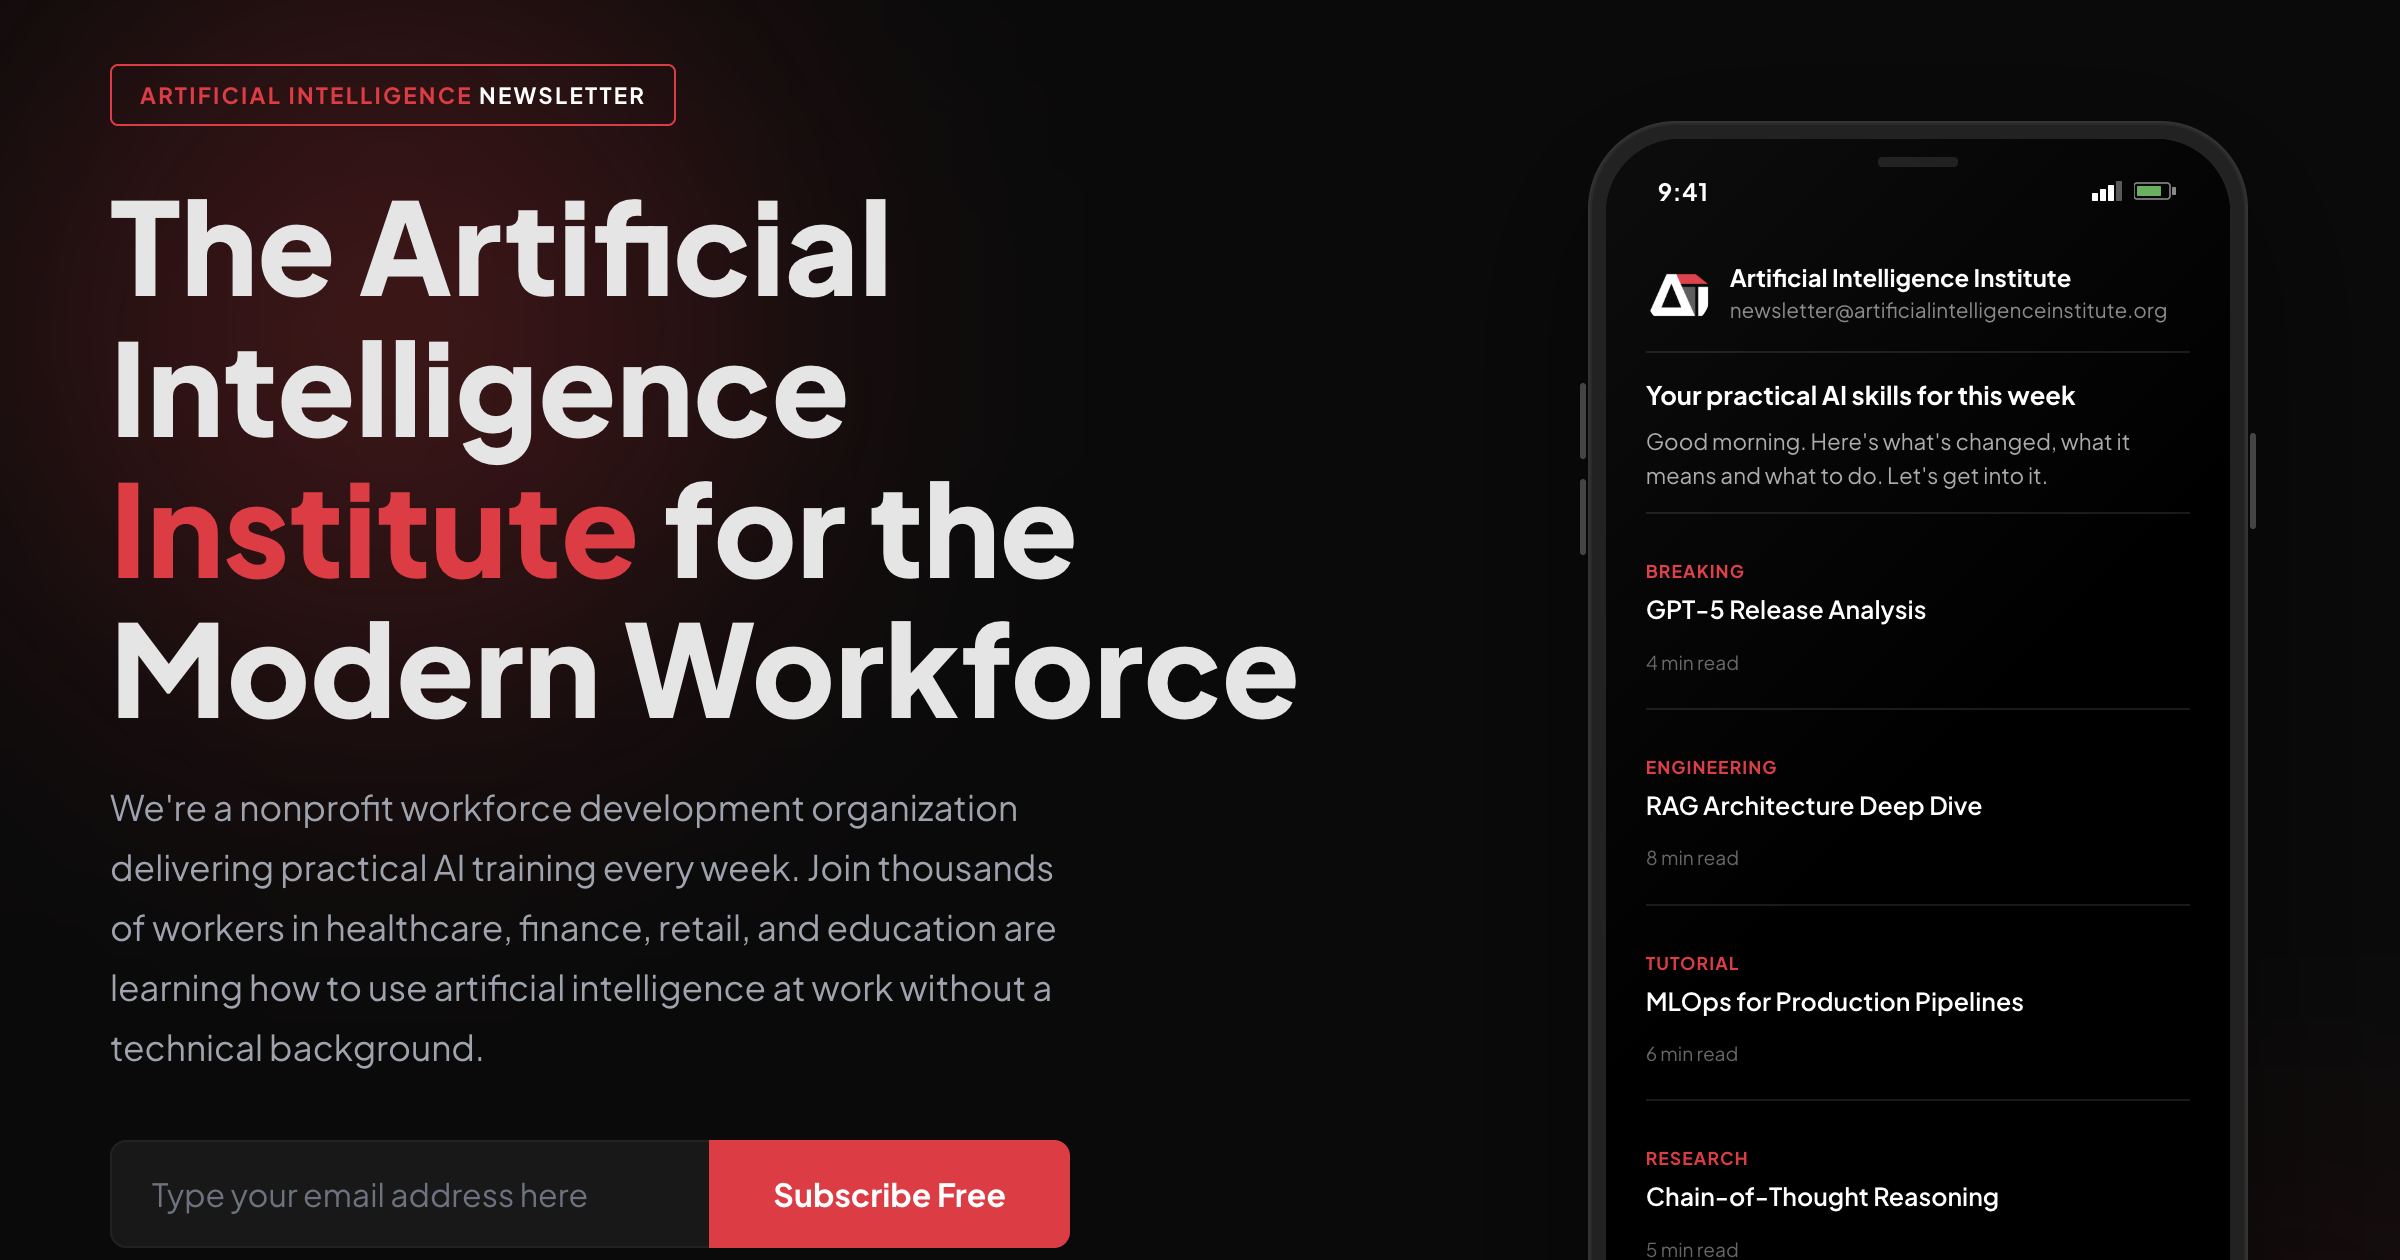
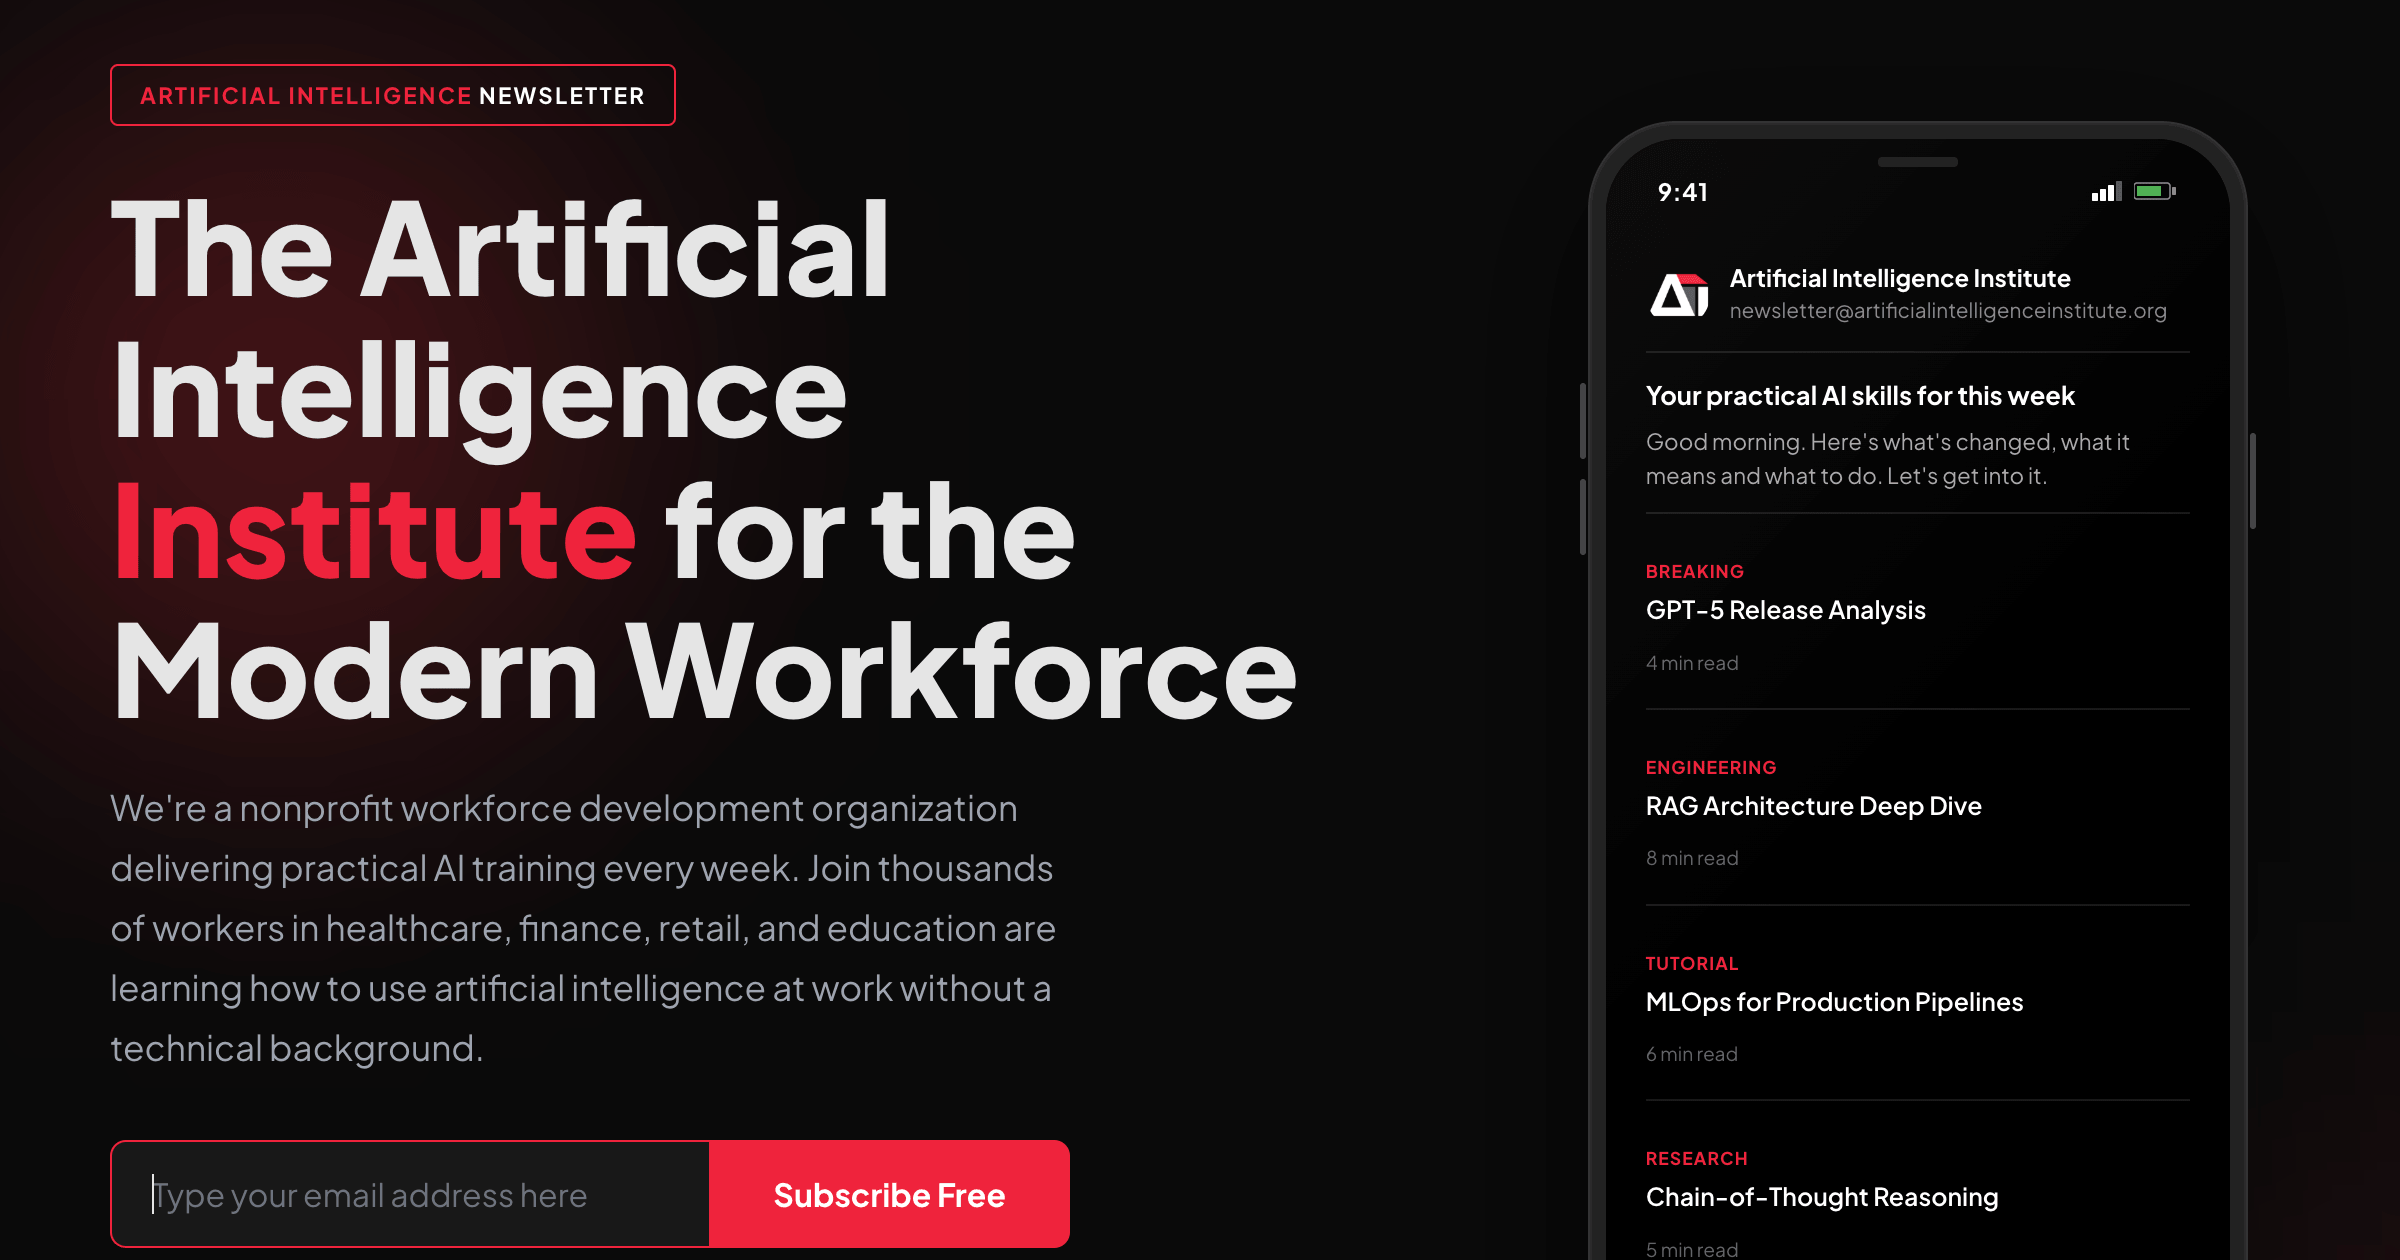
update og:image

diff --git a/index.html b/index.html
@@ -30,14 +30,14 @@
     <meta property="og:description"
         content="The Artificial Intelligence Newsletter — practical AI skills delivered weekly. A nonprofit workforce development organization helping workers in healthcare, finance, retail, and education learn AI without a technical background. Join 50,000+ subscribers.">
     <meta property="og:image"
-        content="https://artificialintelligenceinstitute.org/assets/images/og-screenshot-artificial-intelligence-institute.png">
+        content="https://artificialintelligenceinstitute.org/assets/images/og-screenshot-artificial-intelligence-institute.png?v=1">
 
     <meta name="twitter:card" content="summary_large_image">
     <meta name="twitter:title" content="The Artificial Intelligence Newsletter — AI Skills for Workers">
     <meta name="twitter:description"
         content="The Artificial Intelligence Newsletter — practical AI skills delivered weekly. A nonprofit workforce development organization helping workers in healthcare, finance, retail, and education learn AI without a technical background. Join 50,000+ subscribers.">
     <meta name="twitter:image"
-        content="https://artificialintelligenceinstitute.org/assets/images/og-screenshot-artificial-intelligence-institute.png">
+        content="https://artificialintelligenceinstitute.org/assets/images/og-screenshot-artificial-intelligence-institute.png?v=1">
 </head>
 
 <body>